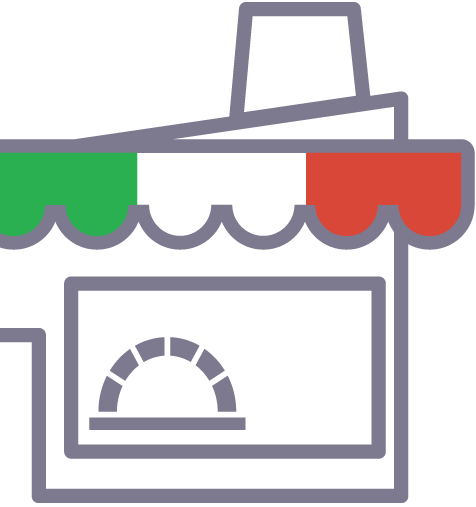
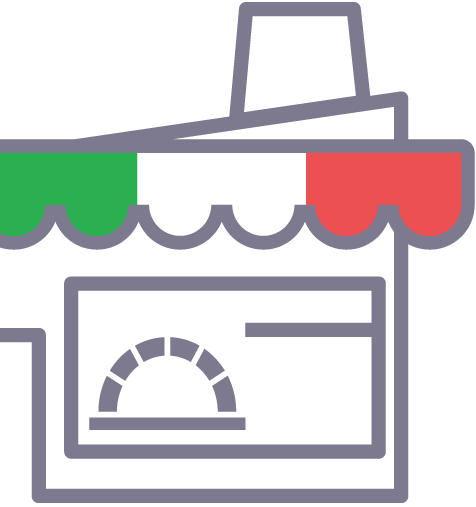
Auth slide

Changed region(s): [[0.6176, 0.2959, 0.9706, 0.4734], [0.5, 0.6213, 0.7941, 0.6805]]

diff --git a/app/templates/authentication.html b/app/templates/authentication.html
@@ -19,10 +19,30 @@
 				<p>Plutôt économe ou pressé ? Définis combien de temps tu souhaites attendre avant d’être livré : plus tu attends, plus tu économises !</p>
 			</div>
 		</ion-slide>
+		<ion-slide id="auth">
+			<div class="content">
+				<div class="logo">
+					<img src="images/logo-groupeat.png" alt="">
+					<h4 class="baseline">Le prix du groupe, à la maison !</h4>
+				</div>
+				<div class="group-input group-two">
+					<div class="input">
+						<input type="text" placeholder="Adresse Email" ng-model="email">
+					</div>
+					<div class="input">
+						<input type="password" placeholder="Mot de Passe" ng-model="password">
+					</div>
+				</div>
+				<div class="btn btn-bloc btn-lg btn-green mg-top-20">
+					Créer mon compte !
+				</div>
+				<p class="mute-link mg-top-20">Je posséde déjà un compte. <a href="">Me connecter !</a></p>
+			</div>
+		</ion-slide>
 	</ion-slide-box>
 
 	<div id="intro-animations">
-		<div class="canvas" ng-class="{'is-slide2' : slideIndex === 1, 'is-slide3' : slideIndex === 2}">
+		<div class="canvas" ng-class="{'is-slide2' : slideIndex === 1, 'is-slide3' : slideIndex === 2 || slideIndex === 3, 'is-hidden' : slideIndex === 3}">
 			<div class="pizzeria">
 				<ul class="smoke">
 					<li></li>

diff --git a/app/styles/pages/_authentication.scss b/app/styles/pages/_authentication.scss
@@ -1,0 +1,50 @@
+#auth {
+	.content {
+		@extend %center-content;
+		width: 75%;
+		.logo {
+			text-align: center;
+			margin-bottom: 50px;
+			img {
+				max-width: 100%;
+			}
+			h4 {
+				font-weight: 300;
+				font-size: 16px;
+				margin-top: 30px;
+				color: $font-grey;
+			}
+		}
+		input {
+			height: 70px;
+			padding: 0 15px;
+			font-size: 16px;
+			line-height: 70px;
+			display: block;
+			width: 100%;
+		}
+		.group-input {
+			border: 2px solid $bg-light;
+			@include border-radius(4px);
+			&.group-two {
+				.input {
+					&:first-child {
+						position: relative;
+						&:after {
+							content: "";
+							position: absolute;
+							bottom: 0;
+							left: 15px;
+							width: calc(100% - 30px);
+							height: 1px;
+							background-color: $border-light;
+						}
+					}
+				}
+			}
+		}
+		.mg-top-20 {
+			margin-top: 20px;
+		}
+	}
+}

diff --git a/app/styles/components/_buttons.scss b/app/styles/components/_buttons.scss
@@ -8,9 +8,10 @@
   display: inline-block;
   text-align:center;
   text-decoration: none;
-  font-weight: 700;
+  font-weight: 500;
   width: 100%;
   border: none;
+  text-transform: uppercase;
   @include border-radius(4px);
   &.btn-bloc {
   	display: block;
@@ -23,14 +24,21 @@
   &.btn-lg {
   	line-height: 50px;
   	letter-spacing: 0.4px;
-    font-size: 16px;
+    font-size: 12px;
   }
   &.btn-xlg {
     line-height: 71px;
     letter-spacing: 0.4px;
-    font-size: 16px;
+    font-size: 14px;
   }
   &.btn-square {
     @include border-radius(0);
   }
 } 
+
+
+.mute-link {
+  color: $font-grey;
+  text-align: center;
+  font-size: 12px;
+}

diff --git a/app/styles/components/_intro-slides.scss b/app/styles/components/_intro-slides.scss
@@ -9,7 +9,7 @@
 			font-family: "Helvetica Neue", "Helvetica", Arial !important;
 		}
 		p {
-			color: darken($font-grey, 10%);
+			color: $font-grey;
 			font-size: 13px;
 		}
 	}
@@ -349,6 +349,10 @@
 				width: 100%;
 				background-color: $purple;
 			}
+		}
+		&.is-hidden {
+			opacity: 0;
+			@include transition(all 0.1s cubic-bezier(0.25, 0.8, 0.25, 1));
 		}
 	}
 }

diff --git a/app/styles/base/_variables.scss b/app/styles/base/_variables.scss
@@ -7,7 +7,7 @@ $base-border-radius: 4px;
 
 // Colors
 $blue 		: #30364C; //2d283d
-$red 		: #E74C3C;
+$red 		: #FF4E50;
 $green 		: #1AB22D;
 $orange 	: #E67E22;
 $purple		: #767283;

diff --git a/app/styles/main.scss b/app/styles/main.scss
@@ -48,3 +48,4 @@
  @import "pages/group-orders";
  @import "pages/restaurant-menu";
  @import "pages/cart";
+ @import "pages/authentication";
